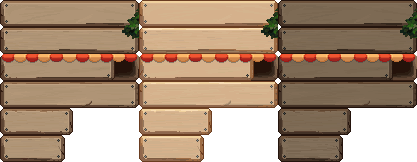
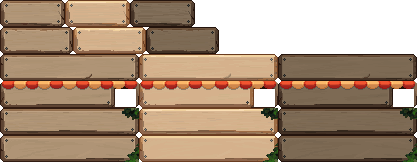
Add shop button (pre functional) to main menu graphics

diff --git a/UI/MainMenu/MainWindow.xaml b/UI/MainMenu/MainWindow.xaml
@@ -25,7 +25,7 @@
                 RenderOptions.BitmapScalingMode="NearestNeighbor">
 
             <Image Name="MainCanvasImage"
-                   Source="/Assets/UI/MainMenu/menu_background.png"
+                   Source="/Assets/UI/MainMenu/main_menu.png"
                    Stretch="Fill"
                    Width="368"
                    Height="249"/>
@@ -68,7 +68,8 @@
                    Canvas.Left="114"
                    Canvas.Top="97"
                    Width="139"
-                   Height="27"/>
+                   Height="27" 
+                   Stretch="None"/>
 
             <Image x:Name="FieldGuideLabelImage"
                    IsHitTestVisible="False"
@@ -96,8 +97,9 @@
                    Canvas.Left="114"
                    Canvas.Top="128"
                    Width="139"
-                   Height="27"/>
-
+                   Height="27" 
+                   Stretch="None"/>
+            
             <Image x:Name="RosterLabelImage"
                    IsHitTestVisible="False"
                    Stretch="None"
@@ -120,13 +122,14 @@
                     PreviewMouseDown="Roster_MouseLeftButtonDown"
                     PreviewMouseUp="Roster_MouseUp"/>
 
-            <Image x:Name="ClearDesktopImage"
+            <Image x:Name="ShopImage"
                    Canvas.Left="114"
                    Canvas.Top="159"
                    Width="139"
-                   Height="27"/>
+                   Height="27" 
+                   Stretch="None"/>
 
-            <Image x:Name="ClearDesktopLabelImage"
+            <Image x:Name="ShopLabelImage"
                    IsHitTestVisible="False"
                    Stretch="None"
                    Canvas.Left="114"
@@ -134,9 +137,38 @@
                    Width="139"
                    Height="27"/>
 
-            <Button x:Name="ClearDesktopButton"
+            <Button x:Name="ShopButton"
                     Canvas.Left="114"
                     Canvas.Top="159"
+                    Width="139"
+                    Height="27"
+                    Background="Transparent"
+                    BorderThickness="0"
+                    Opacity="0"
+                    Click="Shop_Click" 
+                    MouseEnter="Shop_MouseEnter"
+                    MouseLeave="Shop_MouseLeave"
+                    PreviewMouseDown="Shop_MouseLeftButtonDown"
+                    PreviewMouseUp="Shop_MouseUp"/>
+            
+            <Image x:Name="ClearDesktopImage"
+                   Canvas.Left="114"
+                   Canvas.Top="190"
+                   Width="139"
+                   Height="27" 
+                   Stretch="None"/>
+
+            <Image x:Name="ClearDesktopLabelImage"
+                   IsHitTestVisible="False"
+                   Stretch="None"
+                   Canvas.Left="114"
+                   Canvas.Top="190"
+                   Width="139"
+                   Height="27"/>
+
+            <Button x:Name="ClearDesktopButton"
+                    Canvas.Left="114"
+                    Canvas.Top="190"
                     Width="139"
                     Height="27"
                     Background="Transparent"
@@ -150,22 +182,22 @@
             
             <Image x:Name="SettingsImage"
                    Canvas.Left="114"
-                   Canvas.Top="190"
-                   Width="139"
+                   Canvas.Top="221"
+                   Width="73"
                    Height="27"/>
 
             <Image x:Name="SettingsLabelImage"
                    IsHitTestVisible="False"
                    Stretch="None"
                    Canvas.Left="114"
-                   Canvas.Top="190"
+                   Canvas.Top="221"
                    Width="139"
                    Height="27"/>
 
             <ToggleButton x:Name="SettingsButton"
                           Canvas.Left="114"
-                          Canvas.Top="190"
-                          Width="139"
+                          Canvas.Top="221"
+                          Width="73"
                           Height="27"
                           Background="Transparent"
                           BorderThickness="0"
@@ -178,9 +210,9 @@
 
             <Image x:Name="QuitImage"
                    Source="Assets/UI/MainMenu/Buttons/button_exit.png"
-                   Canvas.Left="114"
+                   Canvas.Left="188"
                    Canvas.Top="221"
-                   Width="139"
+                   Width="65"
                    Height="27"/>
 
             <Image x:Name="QuitLabelImage"
@@ -192,9 +224,9 @@
                    Height="27"/>
 
             <Button x:Name="QuitButton"
-                    Canvas.Left="114"
+                    Canvas.Left="188"
                     Canvas.Top="221"
-                    Width="139"
+                    Width="65"
                     Height="27"
                     Background="Transparent"
                     BorderThickness="0"

diff --git a/UI/MainMenu/MainWindow.xaml.cs b/UI/MainMenu/MainWindow.xaml.cs
@@ -55,6 +55,11 @@ public partial class MainWindow : Window
     private readonly BitmapSource _rosterPressed;
     private readonly BitmapSource _rosterLabel;
 
+    private readonly BitmapSource _shopNormal;
+    private readonly BitmapSource _shopHover;
+    private readonly BitmapSource _shopPressed;
+    private readonly BitmapSource _shopLabel;
+
     private readonly BitmapSource _clearDesktopNormal;
     private readonly BitmapSource _clearDesktopHover;
     private readonly BitmapSource _clearDesktopPressed;
@@ -125,7 +130,7 @@ public partial class MainWindow : Window
 
         MainCanvasImage.Source =
             AssetImageLoader.Load(
-                "Assets/UI/MainMenu/menu_background.png");
+                "Assets/UI/MainMenu/main_menu.png");
 
         VersionImage.Source =
             AssetImageLoader.Load(
@@ -188,6 +193,27 @@ public partial class MainWindow : Window
 
         RosterImage.Source = _rosterNormal;
         RosterLabelImage.Source = _rosterLabel;
+
+        //Shop
+        _shopNormal =
+            _mainMenuButtonSheet
+                .GetFrame("shop_normal")
+                .Image;
+        _shopHover = 
+            _mainMenuButtonSheet
+                .GetFrame("shop_hover")
+                .Image; 
+        _shopPressed = 
+            _mainMenuButtonSheet
+                .GetFrame("shop_pressed")
+                .Image; 
+        _shopLabel =
+            _mainMenuLabelSheet
+                .GetFrame("shop")
+                .Image; 
+
+        ShopImage.Source = _shopNormal;
+        ShopLabelImage.Source = _shopLabel;
 
         //Clear Desktop
         _clearDesktopNormal =
@@ -1298,6 +1324,46 @@ public partial class MainWindow : Window
     {
         RosterImage.Source =
             _rosterHover;
+    }
+
+    private void Shop_Click(
+       object sender,
+       RoutedEventArgs e)
+    {
+        UiSounds.PlayButtonClick();
+        //OpenCreatureRoster();
+    }
+
+    private void Shop_MouseEnter(
+        object sender,
+        WpfMouseEventArgs e)
+    {
+        ShopImage.Source =
+            _shopHover;
+    }
+
+    private void Shop_MouseLeave(
+        object sender,
+        WpfMouseEventArgs e)
+    {
+        ShopImage.Source =
+            _shopNormal;
+    }
+
+    private void Shop_MouseLeftButtonDown(
+        object sender,
+        WpfMouseButtonEventArgs e)
+    {
+        ShopImage.Source =
+            _shopPressed;
+    }
+
+    private void Shop_MouseUp(
+        object sender,
+        WpfMouseButtonEventArgs e)
+    {
+        ShopImage.Source =
+            _shopHover;
     }
 
     private void ClearDesktop_MouseEnter(
